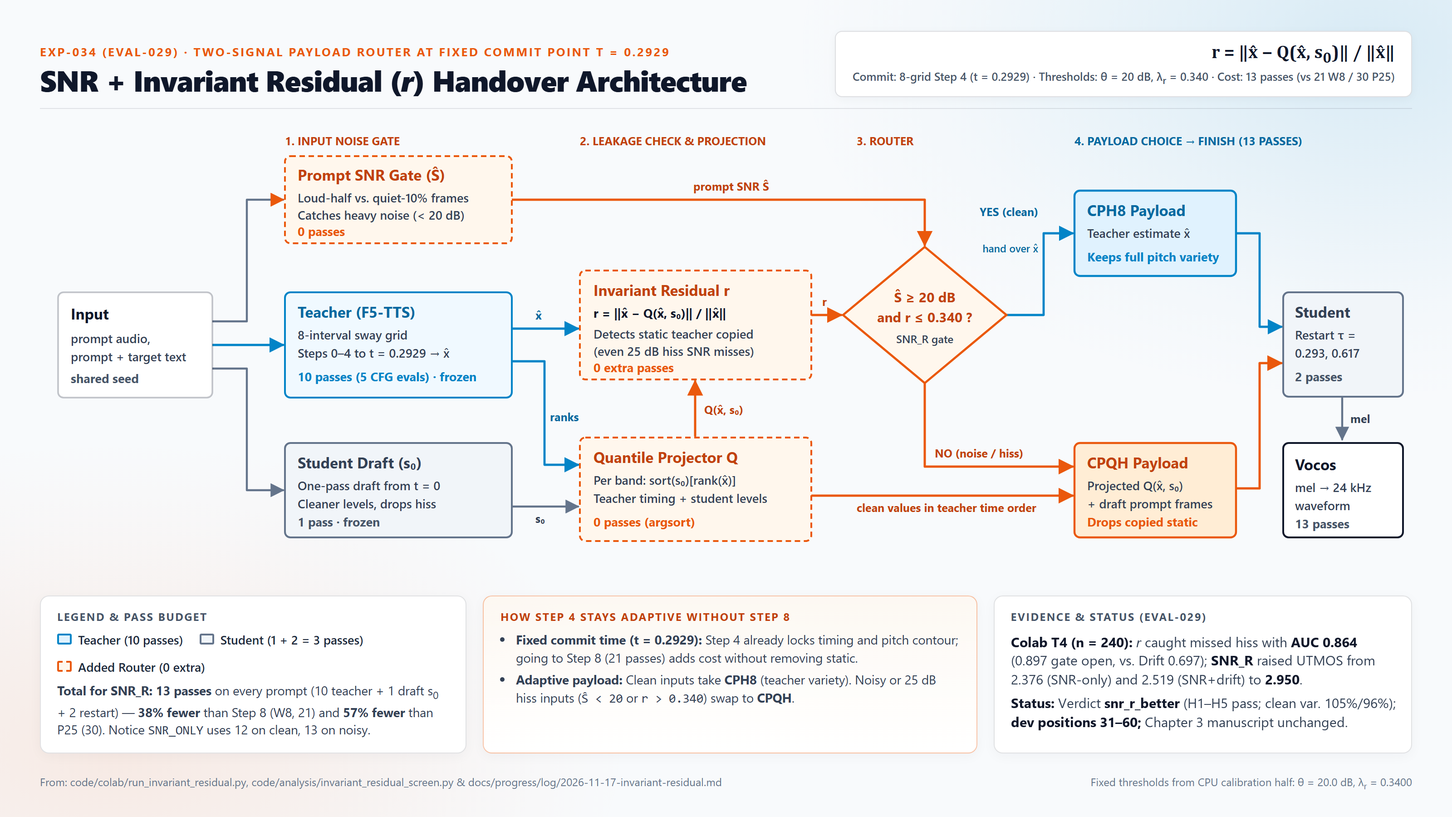
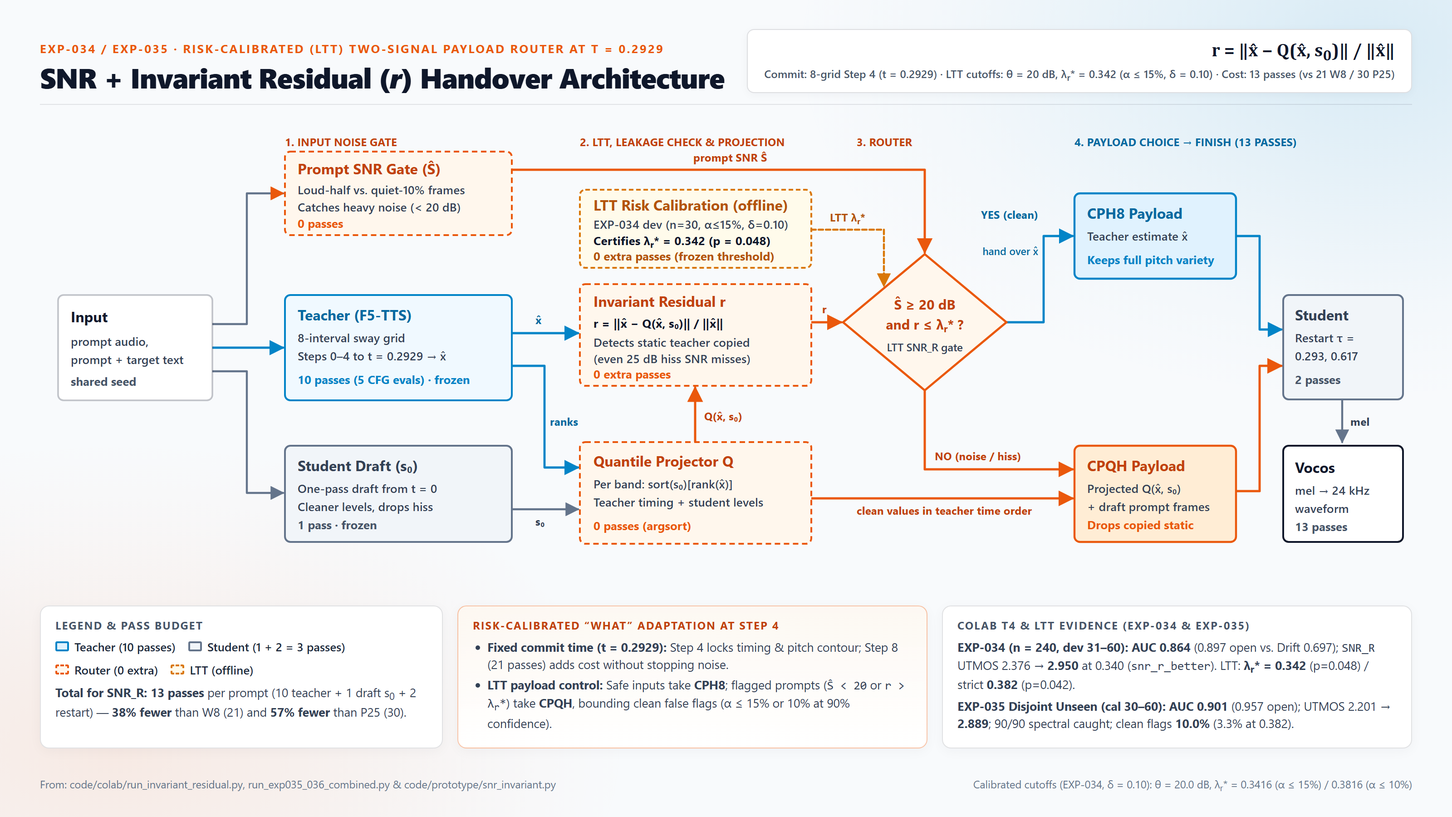
PAPER-021 & PRES-003: Update LTT SNR_R diagram and add existing DMOSpeech 2 handover visual

diff --git a/paper/figures/fig_snr_r.tex b/paper/figures/fig_snr_r.tex
@@ -2,6 +2,6 @@
 \begin{figure}[!htbp]
 \centering
 \includegraphics[width=\linewidth]{figures/exp034_architecture.png}
-\caption[Architecture of the two-signal SNR and invariant residual (\texttt{SNR\_R}) handover router]{Architecture of the two-signal SNR and invariant residual (\texttt{SNR\_R}) handover router evaluated in \texttt{EXP-034} (updated with the Colab Tesla T4 outcome; bottom-right box). Rather than choosing among teacher stopping steps $k\in\{4..8\}$ at $j=1$ as in Figure~\ref{fig:method}, the pipeline stops the 8-interval teacher at $t_4=0.2929$ (10 passes), generates the 1-pass student draft $s_0$, computes $r$ from the per-band quantile projection $Q(\hat x_1,s_0)$, and routes the handover payload between \texttt{CPH8} and \texttt{CPQH} before running the remaining two student passes at $j=2$ (13 passes total).}
+\caption[Architecture of the risk-calibrated (LTT) SNR and invariant residual (\texttt{SNR\_R}) handover router]{Architecture of the two-signal SNR and invariant residual (\texttt{SNR\_R}) handover router evaluated in \texttt{EXP-034} (updated with offline Learn-Then-Test risk calibration $\lambda_r^*=0.342$ at $\alpha\le 15\%,\ \delta=0.10$ and completed \texttt{EXP-034}/\texttt{EXP-035} Colab Tesla T4 outcomes; bottom-right box). Rather than choosing among teacher stopping steps $k\in\{4..8\}$ at $j=1$ as in Figure~\ref{fig:method}, the pipeline stops the 8-interval teacher at $t_4=0.2929$ (10 passes), generates the 1-pass student draft $s_0$, computes $r$ from the per-band quantile projection $Q(\hat x_1,s_0)$, and routes the handover payload between \texttt{CPH8} and \texttt{CPQH} before running the remaining two student passes at $j=2$ (13 passes total).}
 \label{fig:snr-r}
 \end{figure}

diff --git a/docs/progress/STATUS.md b/docs/progress/STATUS.md
@@ -1,5 +1,7 @@
 # Current status
 
+Updated: 2026-11-19 (Asia/Manila). **Existing DMOSpeech 2 handover architecture visual (`PRES-003`, `review`):** Created [baseline_handover_architectures.png](../../presentation/baseline_handover_architectures.png) (`3200x1800` PNG) depicting strictly the existing DMOSpeech 2 teacher-guided handover pipeline as released in [infer.py](../../code/vendor/dmospeech2/src/infer.py) (`16`-grid guided F5-TTS ODE, static cutoff $t_k > t_{\text{switch}}$, raw endpoint $\hat{x}_1$, $j = 1$ SDEdit re-noising at $\tau = 0.0761$, `3`-step student, and Vocos decoding; excludes thesis-proposed adaptive rules and variant-strip cards; see [baseline diagram log](log/2026-11-19-baseline-handover-diagram.md)). **`SNR_R` architecture figure updated with LTT risk calibration (`PAPER-021`, `review`):** Updated [exp034_architecture.png](../../paper/figures/exp034_architecture.png), [presentation/exp034_architecture.png](../../presentation/exp034_architecture.png) (`3200x1800` PNG, byte-identical), and [fig_snr_r.tex](../../paper/figures/fig_snr_r.tex) to show the offline Learn-Then-Test calibration block ($\lambda_r^* = 0.342$ at $\alpha \le 15\%$, $p = 0.048$; strict $0.382$ at $\alpha \le 10\%$, $p = 0.042$), risk-calibrated `"What"` adaptation card at Step 4, and completed `EXP-034` + `EXP-035` T4 outcomes (see [diagram log](log/2026-11-19-snr-r-ltt-diagram.md)).
+
 Updated: 2026-11-18 (Asia/Manila). **Local CPU prototype updated to risk-calibrated `SNR + Invariant Residual (SNR_R)` (`PROTO-002`, `review`):** Implemented model-free `SNR_R` logic and fixed-sequence binomial Learn-Then-Test calibration (`calibrate_ltt`, `_binom_cdf`) in [snr_invariant.py](../../code/prototype/snr_invariant.py) (`1`-pass draft $s_0$ + `5`-step 8-grid teacher to $t=0.2929$ + LTT-calibrated $r > \hat{\lambda}_r$ / SNR $< 20$ dB router between `CPH8` and `CPQH` + `2`-pass student completion, `13` vs `21` `W8` / `30` `P25` passes; presets `ltt_15` `0.3416` at $\alpha=0.15, \delta=0.10, p=0.048$ and `ltt_10` `0.3816` at $\alpha=0.10, \delta=0.10, p=0.042$ calibrated on `EXP-034` and verified held-out on `EXP-035`; [snr_drift.py](../../code/prototype/snr_drift.py) preserved), added `pink25`/`hp25` degradations and shared `8/16`-grid helpers in [engine.py](../../code/prototype/engine.py), exposed live LTT calibration + `EXP-034` T4 records in [server.py](../../code/prototype/server.py), [cli.py](../../code/prototype/cli.py), and [web/index.html](../../code/prototype/web/index.html), added [test_prototype_snr_invariant.py](../../code/tests/test_prototype_snr_invariant.py), and verified real CPU synthesis on dev speaker `common_voice_en_203357-common_voice_en_203358` (see [prototype log](log/2026-11-18-snr-invariant-prototype.md)). **Combined Path A + Path B (`EXP-035 + EXP-036`, `EVAL-030`, `todo`) All-in-One Colab T4 package on `rhnl-3`:** Consolidated both paths into one shared-cohort sweep ([`DMOSpeech2_EXP035_EXP036_AllInOne.ipynb`](../../code/colab/DMOSpeech2_EXP035_EXP036_AllInOne.ipynb) and [run_exp035_036_combined.py](../../code/colab/run_exp035_036_combined.py), backed by [handover_mechanisms.py](../../code/colab/handover_mechanisms.py) and preregistration `492e3731998d...`) on `unseen_cal[30:60]` (`240` quality, `40` diversity, `10` timing; strictly disjoint from `dev[0:100]` and `EXP-028` `[0:30]`), testing Path A's `Base -> FCH -> G1 -> G2 -> G3` ladder + `SNR_R` 5-fold OOF confirmation alongside Path B's router-free `13`-pass candidates (`DSGH_MICRO`, `DSGH_DUAL`, `CWPS`; see [setup log](log/2026-11-18-exp035-exp036-setup.md)). **Theory framing in Appendices D & E (`PAPER-019`, `review`):** Added conceptual and mathematical foundations to [appendices.tex](../../paper/chapters/appendices.tex) (Chapters 1–3 untouched): Appendix D.3 adds handover transmissibility (`A`, `B`, `R_k`, `R*`), D.5 adds the exact Euler LTE identity for `d_i`, D.6 synthesizes the spread principle (`\mathrm{SFM}_N`) and invariance ladder, and E.1 formalizes the `G_1 \subset G_2 \subset G_3` ladder (`Table E.1`), proved `Propositions E.1–E.3` (`G_3`-invariance & rank maximality of `Q`, time-permutation nullity of `r`, exact 1D 2-Wasserstein energy & stationary noise-floor growth), and `Remark E.1` (broadband vs.\ non-`G_3` limits); `latexmk -Werror` built `paper/build/main.pdf` cleanly (`104 pages`, `2,178,976 bytes`, visually inspected via `pdftoppm`; see [theory framing log](log/2026-11-18-appendices-theory.md)). **Appendix E `SNR_R` addition (`PAPER-018`, `review`, development evidence):** Added Appendix E (`SNR and Invariant Residual Handover`, `\label{app:snr-r}`) to [appendices.tex](../../paper/chapters/appendices.tex) (Chapters 1–3 untouched) with [fig_snr_r.tex](../../paper/figures/fig_snr_r.tex) (`Figure E.1`, embedding [exp034_architecture.png](../../paper/figures/exp034_architecture.png) with its bottom-right card updated to report the completed Colab T4 outcome), the invariant residual formulation $r = \|\hat x_1 - Q(\hat x_1, s_0)\|_M / (\|\hat x_1\|_M + \epsilon)$, frozen `EXP-034` verdict (`snr_r_better`, `H1–H5` all pass, `Table E.1`), complete overall/fresh/8-condition quality and runtime comparisons (`Tables E.2–E.3`), `clean` + `gauss25` multi-seed prosodic diversity across all 9 diversity arms/policies (`Table E.4`), and honest post-hoc comparisons against `R_ONLY`, `CPQH`, and teacher-free `STUR2` (explicitly marked as unapproved Colab T4 development evidence); `latexmk -Werror` built `paper/build/main.pdf` cleanly (`100 pages`, `2,154,767 bytes`, Appendix E visually verified via `pdftoppm`; see [Appendix E log](log/2026-11-18-appendix-e-snr-invariant-residual.md)). **EXP-034 complete (`EVAL-029`, `review`, development evidence on Colab Tesla T4):** Verified and imported [EXP-034 results](../../research/experiments/EXP-034-invariant-residual/results/INVARIANT_RESIDUAL_REPORT.md) (`240/240` quality across `8` conditions, `40/40` diversity, `10/10` timing; smoke identities and `EXP-031`/`EXP-033` reproductions exact `0.0`; `preregistration.json` `93ed41cee6e8...` and `DEMAND` hashes verified; local `analyze()` byte-identical). Under frozen rules, verdict is **`snr_r_better`** (`H1–H5` all pass): **`SNR_R`** (`\hat S < 20` dB or `r > 0.3400` routing `CPH8` -> `CPQH` at `t=0.2929`, `12–13` passes, `2.114` s vs `W8` `3.409` s and `P25` `4.829` s) beats `SNR_ONLY` (`+0.574 [+0.468, +0.677]` UTMOS, `+0.0156` SIM), `SNR_DRIFT` (`+0.431 [+0.340, +0.524]` UTMOS, `+0.0091` SIM), and `W8` (`+0.582` UTMOS, `+0.0242` SIM); `AUC(r) = 0.864` (`0.897` SNR gate open) vs `drift8` `0.697`; wrong clean flags `0.067` (`<= 0.15`, both clean flagged cases actually higher on `CPQH`); clean variety `105%` (`CVf0`) / `96%` (aligned) of `CPH8`. Effect also holds on unseen positions `41–60` (`+0.668` UTMOS vs `SNR_ONLY`). Post hoc ([diagnostics.json](../../research/experiments/EXP-034-invariant-residual/results/diagnostics.json)): gains concentrate on 25 dB hiss/pink noise (`gauss25`, `pink25`, `hp25`); `R_ONLY` matches `SNR_R`, while teacher-free `STUR2` (`3` passes, `0.511` s, `0` runaways) leads overall UTMOS/WER/SIM if clean pitch variety is omitted. See [EXP-034 results log](log/2026-11-18-exp034-results.md). **Appendices A–D Colab alignment (`PAPER-012`/`PAPER-017`, `review`):** Grounded all four appendices ([appendices.tex](../../paper/chapters/appendices.tex), Chapters 1–3 untouched on `origin/main` PR #19) strictly on Google Colab Tesla T4 experiments: Appendix A now walks through real `EXP-011` (`worked_example.json`) + `gpu_grid_all1000.csv` development-utterance calculations and `n = 100` dev-split T4 LTT counts (`Table A.2`); Appendix B adds the T4-fitted simulation (`code/analysis/ltt_sim.py --fitted`) alongside the stress test; Appendix C (`Figure C.1`) plots three real T4 development utterances with the Step 7 (`0.227`) tick and SNR gate noted; and Appendix D removes all stale local CPU checks/framing, clarifies pre-LTT CV (`Tables D.6–D.7`) vs. 2-condition (`AUDIT-001`) and 6-condition (`EXP-012`/`EXP-017`/`EXP-018`) LTT, adds `Table D.9` comparing all fixed checkpoints (`Steps 1–8`) against Chapter 3 policies on `360` Colab T4 cases (`EXP-018`, without `STAC`), and summarizes `EXP-030`/`EXP-031`/`EXP-033` in `D.6` and `Table D.10`; `latexmk -Werror` built `paper/build/main.pdf` cleanly (`93 pages`, `1,213,460 bytes`; see [appendices Colab alignment log](log/2026-11-17-appendices-colab-alignment.md)). **Branch sync (`PAPER-016`, `review`):** Fast-forwarded local `main` to `origin/main` (`d169bef`, PR #19 *Post-concept revisions*), merged `origin/main` into `rhnl-3` (`e0bb5c4`), kept all `12` non-appendix PR #19 files byte-identical (Chapters 1–3 with `3` objectives & `Step 7` candidate, `fig_conceptual`/`fig_grid`/`fig_method`/`fig_theoretical`/`fig_workflow`, `references.bib`, `revision-matrix.tex`), reconciled [appendices.tex](../../paper/chapters/appendices.tex) (`Table A.1` Step 7 & Objective `2`/`3` refs + Appendix D Steps `1–7` & prosodic variety, STAC/Appendix E removed), and kept all `rhnl-3` contributions (`PROTO-001`, `EXP-016`–`EXP-033`, offline screens/tests, and `PRES-002` `19`-slide deck); `latexmk -Werror` built [main.tex](../../paper/main.tex) cleanly (`90 pages`, `1,182,187 bytes`; see [merge log](log/2026-11-17-merge-origin-main.md)). **Presentation update (`PRES-002`, `review`):** Removed slides `20` (`20-appendix-stac-architecture.html`), `21` (`21-appendix-stac-results.html`), and `22` (`22-appendix-two-axis-architecture.html`) from `presentation/slides/`, rebuilt [presentation/index.html](../../presentation/index.html) (`19` scenes: `01`–`16` main proposal + `17`–`19` appendix), synced [presentation/SCRIPT.md](../../presentation/SCRIPT.md), updated [presentation/README.md](../../presentation/README.md), and re-exported [presentation/proposal-defense-slides.pdf](../../presentation/proposal-defense-slides.pdf) (`19` slides, `9,535,551` bytes). See the [presentation slide removal log](log/2026-11-17-remove-presentation-slides-20-22.md). **Earlier manuscript updates (`PAPER-014`/`PAPER-015`, `review`):** See the [STAC removal log](log/2026-11-17-remove-stac-from-paper.md) and [Appendix D update log](log/2026-11-16-appendix-d-steps1to7-and-variety.md). Note: presentation main slides `06` and `11` still reflect pre-PR #19 `4` objectives / no Step `7` until updated.
 Updated: 2026-11-18 (Asia/Manila). **Fixed-cost clarifications (`PAPER-020`, `review`):** Chapter 1 Scope, Section 2.5 and Chapter 3 now state that the router adapts what is handed over, not how much computation is spent (13 passes for every input); Chapter 3 adds commit-point ablations (10 and 16 passes) and a pre-specified router-vs-STUR2 variety test; see the [fixed-cost log](log/2026-11-18-fixed-cost-clarifications.md). **Chapter 2 regrouped (`PAPER-020`, `review`):** Table 2.1 and Table 2.2 use category groups aligned with the payload-router architecture, new Table 2.3 traces each added component to its sources (panel item 9), Chapter 3's citation gaps are filled with 18 verified references, and passages tied only to the old scheduler were removed; see the [citations and Chapter 2 log](log/2026-11-18-citations-and-chapter2-alignment.md). **Build fixes and Chapter 3 rewrite committed:** `citc.sty` now uses vector Latin Modern for typewriter/sans text (no Type 3 bitmap fonts) and the Chapter 2 synthesis table no longer overflows; the working-tree rewrite of Chapter 3 and Figures 3.x (`fig_method`, `fig_workflow`) toward the SNR + invariant residual handover (`PAPER-020`, `review`) was committed at Mark Limpahan's request; it is not adviser-approved, EXP-034 remains development evidence, and Appendix E text saying "Chapter 3 remains unchanged" plus the Appendix C prototype table need reconciling (see [log](log/2026-11-18-build-fixes-and-chapter3-rewrite.md)); `latexmk -Werror` built 106 pages, 0 overfull, 0 undefined. Also: R2/R21/R23/R24 closed with LibriSpeech-PC test-clean as a test-only second set ([log](log/2026-11-17-revision-matrix-r2-r21-r23-r24.md)). **Chapter 3 rewritten around the payload router (`PAPER-020`, `review`):** [03-methodology.tex](../../paper/chapters/03-methodology.tex) now describes the risk-calibrated payload router (`SNR_R`, fixed 13-pass teacher path, quantile projection and invariant residual, absolute quality-failure rule, Learn-Then-Test bound on failures in excess of reproduced DMOSpeech 2, comparison against established systems and ablations), replacing the per-utterance stopping-time scheduler, which is now preliminary work in Appendix D; a plain-language pass follows Ms. Eder's comment; Chapter 1 objectives, Appendices D–E wording and the revision matrix still describe the old method and need reconciling. `latexmk -Werror` builds cleanly (106 pages); see the [replacement log](log/2026-11-18-chapter3-router-replaces-scheduler.md). **Theory framing in Appendices D & E (`PAPER-019`, `review`):** Added conceptual and mathematical foundations to [appendices.tex](../../paper/chapters/appendices.tex) (Chapters 1–3 untouched): Appendix D.3 adds handover transmissibility (`A`, `B`, `R_k`, `R*`), D.5 adds the exact Euler LTE identity for `d_i`, D.6 synthesizes the spread principle (`\mathrm{SFM}_N`) and invariance ladder, and E.1 formalizes the `G_1 \subset G_2 \subset G_3` ladder (`Table E.1`), proved `Propositions E.1–E.3` (`G_3`-invariance & rank maximality of `Q`, time-permutation nullity of `r`, exact 1D 2-Wasserstein energy & stationary noise-floor growth), and `Remark E.1` (broadband vs.\ non-`G_3` limits); `latexmk -Werror` built `paper/build/main.pdf` cleanly (`104 pages`, `2,178,976 bytes`, visually inspected via `pdftoppm`; see [theory framing log](log/2026-11-18-appendices-theory.md)). **Appendix E `SNR_R` addition (`PAPER-018`, `review`, development evidence):** Added Appendix E (`SNR and Invariant Residual Handover`, `\label{app:snr-r}`) to [appendices.tex](../../paper/chapters/appendices.tex) (Chapters 1–3 untouched) with [fig_snr_r.tex](../../paper/figures/fig_snr_r.tex) (`Figure E.1`, embedding [exp034_architecture.png](../../paper/figures/exp034_architecture.png) with its bottom-right card updated to report the completed Colab T4 outcome), the invariant residual formulation $r = \|\hat x_1 - Q(\hat x_1, s_0)\|_M / (\|\hat x_1\|_M + \epsilon)$, frozen `EXP-034` verdict (`snr_r_better`, `H1–H5` all pass, `Table E.1`), complete overall/fresh/8-condition quality and runtime comparisons (`Tables E.2–E.3`), `clean` + `gauss25` multi-seed prosodic diversity across all 9 diversity arms/policies (`Table E.4`), and honest post-hoc comparisons against `R_ONLY`, `CPQH`, and teacher-free `STUR2` (explicitly marked as unapproved Colab T4 development evidence); `latexmk -Werror` built `paper/build/main.pdf` cleanly (`100 pages`, `2,154,767 bytes`, Appendix E visually verified via `pdftoppm`; see [Appendix E log](log/2026-11-18-appendix-e-snr-invariant-residual.md)). **EXP-034 complete (`EVAL-029`, `review`, development evidence on Colab Tesla T4):** Verified and imported [EXP-034 results](../../research/experiments/EXP-034-invariant-residual/results/INVARIANT_RESIDUAL_REPORT.md) (`240/240` quality across `8` conditions, `40/40` diversity, `10/10` timing; smoke identities and `EXP-031`/`EXP-033` reproductions exact `0.0`; `preregistration.json` `93ed41cee6e8...` and `DEMAND` hashes verified; local `analyze()` byte-identical). Under frozen rules, verdict is **`snr_r_better`** (`H1–H5` all pass): **`SNR_R`** (`\hat S < 20` dB or `r > 0.3400` routing `CPH8` -> `CPQH` at `t=0.2929`, `12–13` passes, `2.114` s vs `W8` `3.409` s and `P25` `4.829` s) beats `SNR_ONLY` (`+0.574 [+0.468, +0.677]` UTMOS, `+0.0156` SIM), `SNR_DRIFT` (`+0.431 [+0.340, +0.524]` UTMOS, `+0.0091` SIM), and `W8` (`+0.582` UTMOS, `+0.0242` SIM); `AUC(r) = 0.864` (`0.897` SNR gate open) vs `drift8` `0.697`; wrong clean flags `0.067` (`<= 0.15`, both clean flagged cases actually higher on `CPQH`); clean variety `105%` (`CVf0`) / `96%` (aligned) of `CPH8`. Effect also holds on unseen positions `41–60` (`+0.668` UTMOS vs `SNR_ONLY`). Post hoc ([diagnostics.json](../../research/experiments/EXP-034-invariant-residual/results/diagnostics.json)): gains concentrate on 25 dB hiss/pink noise (`gauss25`, `pink25`, `hp25`); `R_ONLY` matches `SNR_R`, while teacher-free `STUR2` (`3` passes, `0.511` s, `0` runaways) leads overall UTMOS/WER/SIM if clean pitch variety is omitted. See [EXP-034 results log](log/2026-11-18-exp034-results.md). **Appendices A–D Colab alignment (`PAPER-012`/`PAPER-017`, `review`):** Grounded all four appendices ([appendices.tex](../../paper/chapters/appendices.tex), Chapters 1–3 untouched on `origin/main` PR #19) strictly on Google Colab Tesla T4 experiments: Appendix A now walks through real `EXP-011` (`worked_example.json`) + `gpu_grid_all1000.csv` development-utterance calculations and `n = 100` dev-split T4 LTT counts (`Table A.2`); Appendix B adds the T4-fitted simulation (`code/analysis/ltt_sim.py --fitted`) alongside the stress test; Appendix C (`Figure C.1`) plots three real T4 development utterances with the Step 7 (`0.227`) tick and SNR gate noted; and Appendix D removes all stale local CPU checks/framing, clarifies pre-LTT CV (`Tables D.6–D.7`) vs. 2-condition (`AUDIT-001`) and 6-condition (`EXP-012`/`EXP-017`/`EXP-018`) LTT, adds `Table D.9` comparing all fixed checkpoints (`Steps 1–8`) against Chapter 3 policies on `360` Colab T4 cases (`EXP-018`, without `STAC`), and summarizes `EXP-030`/`EXP-031`/`EXP-033` in `D.6` and `Table D.10`; `latexmk -Werror` built `paper/build/main.pdf` cleanly (`93 pages`, `1,213,460 bytes`; see [appendices Colab alignment log](log/2026-11-17-appendices-colab-alignment.md)). **Branch sync (`PAPER-016`, `review`):** Fast-forwarded local `main` to `origin/main` (`d169bef`, PR #19 *Post-concept revisions*), merged `origin/main` into `rhnl-3` (`e0bb5c4`), kept all `12` non-appendix PR #19 files byte-identical (Chapters 1–3 with `3` objectives & `Step 7` candidate, `fig_conceptual`/`fig_grid`/`fig_method`/`fig_theoretical`/`fig_workflow`, `references.bib`, `revision-matrix.tex`), reconciled [appendices.tex](../../paper/chapters/appendices.tex) (`Table A.1` Step 7 & Objective `2`/`3` refs + Appendix D Steps `1–7` & prosodic variety, STAC/Appendix E removed), and kept all `rhnl-3` contributions (`PROTO-001`, `EXP-016`–`EXP-033`, offline screens/tests, and `PRES-002` `19`-slide deck); `latexmk -Werror` built [main.tex](../../paper/main.tex) cleanly (`90 pages`, `1,182,187 bytes`; see [merge log](log/2026-11-17-merge-origin-main.md)). **Presentation update (`PRES-002`, `review`):** Removed slides `20` (`20-appendix-stac-architecture.html`), `21` (`21-appendix-stac-results.html`), and `22` (`22-appendix-two-axis-architecture.html`) from `presentation/slides/`, rebuilt [presentation/index.html](../../presentation/index.html) (`19` scenes: `01`–`16` main proposal + `17`–`19` appendix), synced [presentation/SCRIPT.md](../../presentation/SCRIPT.md), updated [presentation/README.md](../../presentation/README.md), and re-exported [presentation/proposal-defense-slides.pdf](../../presentation/proposal-defense-slides.pdf) (`19` slides, `9,535,551` bytes). See the [presentation slide removal log](log/2026-11-17-remove-presentation-slides-20-22.md). **Earlier manuscript updates (`PAPER-014`/`PAPER-015`, `review`):** See the [STAC removal log](log/2026-11-17-remove-stac-from-paper.md) and [Appendix D update log](log/2026-11-16-appendix-d-steps1to7-and-variety.md). Note: presentation main slides `06` and `11` still reflect pre-PR #19 `4` objectives / no Step `7` until updated.
 

diff --git a/docs/progress/TASKS.md b/docs/progress/TASKS.md
@@ -2,8 +2,7 @@
 
 Generated from tasks.json; edit the JSON and run python scripts/render_progress.py.
 
-todo: 11 | in_progress: 5 | blocked: 1 | review: 36 | done: 8
-todo: 10 | in_progress: 5 | blocked: 1 | review: 36 | done: 8
+todo: 11 | in_progress: 5 | blocked: 1 | review: 39 | done: 8
 
 | ID | Task | Owner | Status | Updated | Evidence |
 | --- | --- | --- | --- | --- | --- |
@@ -69,5 +68,7 @@ todo: 10 | in_progress: 5 | blocked: 1 | review: 36 | done: 8
 | EVAL-030 | EXP-035 + EXP-036 All-in-One (Path A + Path B): Condition-invariance ladder & unseen confirmation + DSGH & CWPS novel mechanisms | unassigned | todo | 2026-11-18 | [README.md](../../research/experiments/EXP-035-036-all-in-one/README.md), [preregistration.json](../../research/experiments/EXP-035-036-all-in-one/preregistration.json), [handover_mechanisms.py](../../code/colab/handover_mechanisms.py), [run_exp035_036_combined.py](../../code/colab/run_exp035_036_combined.py), [DMOSpeech2_EXP035_EXP036_AllInOne.ipynb](../../code/colab/DMOSpeech2_EXP035_EXP036_AllInOne.ipynb), [test_handover_mechanisms.py](../../code/tests/test_handover_mechanisms.py), [2026-11-18-exp035-exp036-setup.md](../../docs/progress/log/2026-11-18-exp035-exp036-setup.md) |
 | PROTO-002 | Update local CPU prototype to risk-calibrated SNR + Invariant Residual (SNR_R with LTT) | Rhenel Jhon R. Sajol | review | 2026-11-18 | [snr_invariant.py](../../code/prototype/snr_invariant.py), [engine.py](../../code/prototype/engine.py), [server.py](../../code/prototype/server.py), [cli.py](../../code/prototype/cli.py), [index.html](../../code/prototype/web/index.html), [README.md](../../code/prototype/README.md), [start_prototype.bat](../../code/prototype/start_prototype.bat), [test_prototype_snr_drift.py](../../code/tests/test_prototype_snr_drift.py), [test_prototype_snr_invariant.py](../../code/tests/test_prototype_snr_invariant.py), [2026-11-18-snr-invariant-prototype.md](../../docs/progress/log/2026-11-18-snr-invariant-prototype.md) |
 | PAPER-020 | Rewrite Chapter 3 around the risk-calibrated payload router (SNR_R) with an absolute failure rule and LTT bound against reproduced DMOSpeech 2 | Claude (drafting), for Mark Vincent D. Limpahan | review | 2026-11-18 | [03-methodology.tex](../../paper/chapters/03-methodology.tex), [fig_method.tex](../../paper/figures/fig_method.tex), [fig_workflow.tex](../../paper/figures/fig_workflow.tex), [2026-11-18-chapter3-v2-router-draft.md](../../docs/progress/log/2026-11-18-chapter3-v2-router-draft.md), [2026-11-18-chapter3-router-replaces-scheduler.md](../../docs/progress/log/2026-11-18-chapter3-router-replaces-scheduler.md), [02-related-work.tex](../../paper/chapters/02-related-work.tex), [references.bib](../../paper/references.bib), [2026-11-18-citations-and-chapter2-alignment.md](../../docs/progress/log/2026-11-18-citations-and-chapter2-alignment.md), [2026-11-18-build-fixes-and-chapter3-rewrite.md](../../docs/progress/log/2026-11-18-build-fixes-and-chapter3-rewrite.md), [01-introduction.tex](../../paper/chapters/01-introduction.tex), [2026-11-18-fixed-cost-clarifications.md](../../docs/progress/log/2026-11-18-fixed-cost-clarifications.md) |
+| PAPER-021 | Update SNR_R architecture figure and fig_snr_r caption with Learn-Then-Test (LTT) calibration | Rhenel Jhon R. Sajol | review | 2026-11-19 | [exp034_architecture.png](../../paper/figures/exp034_architecture.png), [exp034_architecture.png](../../presentation/exp034_architecture.png), [fig_snr_r.tex](../../paper/figures/fig_snr_r.tex), [2026-11-19-snr-r-ltt-diagram.md](../../docs/progress/log/2026-11-19-snr-r-ltt-diagram.md) |
+| PRES-003 | Create existing DMOSpeech 2 baseline handover architecture diagram | Rhenel Jhon R. Sajol | review | 2026-11-19 | [baseline_handover_architectures.png](../../presentation/baseline_handover_architectures.png), [2026-11-19-baseline-handover-diagram.md](../../docs/progress/log/2026-11-19-baseline-handover-diagram.md) |
 
 Completion requires acceptance evidence and a recorded validation. Unassigned owners need team assignment.

diff --git a/docs/progress/log/2026-11-19-baseline-handover-diagram.md b/docs/progress/log/2026-11-19-baseline-handover-diagram.md
@@ -1,0 +1,19 @@
+# 2026-11-19: Create existing DMOSpeech 2 baseline handover architecture diagram
+
+Task: `PRES-003` (`review`). Requested by user (`"so our teahcer wants to see baselindes handover achtecture can you create it as iamge?"`, `"EXISITNG HANDOVER ONLY NOT THE ONE WE MADE"`, `"remove thise jsut architecure is snough ahahaha"`).
+
+## Changes
+
[1 lines of base64/hex data omitted]
+- Depicts **strictly the existing DMOSpeech 2 baseline handover architecture** (Li et al., 2025/2026; [`code/vendor/dmospeech2/src/infer.py`](../../../code/vendor/dmospeech2/src/infer.py) `_teacher_sampling` / `_student_sampling`) with zero thesis-proposed mechanisms and no separate variant-card strip—only the clean end-to-end architecture flowchart + three explanatory cards:
+  1. **Inputs & Setup**: Voice prompt audio, prompt/target text, `Duration Pred. (SLP)`, `step_cond + cond_mask`, and `Init y_0 ~ N(0, I)` with no input screening.
+  2. **Guided Teacher ODE (F5-TTS)**: `16`-interval sway grid ($t_i = 1 - \cos((\pi/2)\cdot i/16)$), explicit Euler steps along guided velocity $v = v_c + \gamma(v_c - v_u)$ ($\gamma = 2.0$, `2` passes/eval, optional $\eta$).
+  3. **Static Handover Switch & Endpoint Conversion**: Loop terminates at the first grid point $t_k > t_{\text{switch}}$ (no adaptive signal or gate), runs one final CFG evaluation at $t_k$, and hands over raw endpoint mel prediction $\hat{x}_1 = x + (1 - t_k)\,v(x, t_k)$ (`18` teacher passes at $s = 0.25$, $k = 8$, $t_8 = 0.2929$; signature default $s = 0.07$: `10`).
+  4. **Student (DMOSpeech, `j = 1`)**: Starts at `student_start_step = 1` across $\tau \in \{0.0761, 0.2929, 0.6173\}$, applies SDEdit-style re-noising $\phi = (1 - \tau)\varepsilon + \tau x_1$, and updates $x_1 \leftarrow \phi + (1 - \tau)\,g(\phi, \tau)$ (`3` unguided student passes; `4` passes from $\tau=0$ if `teacher_steps = 0`).
+  5. **Vocos Vocoder**: Strips prompt frames and decodes mel to `24 kHz` audio (`C = 2(k+1) + 3`, `21` passes at $s = 0.25$).
+- Manuscript (`paper/`) remains untouched.
+
+## Checks Run
+
+- Rendered `3200 x 1800` PNG via headless Chrome (`--force-device-scale-factor=2`) and visually inspected the output image to confirm zero text clipping or overlap.
+- Ran `python scripts/render_progress.py`, `python scripts/check_workspace.py`, `python scripts/check_workspace.py --base origin/main`, and `python -m unittest discover -s code/tests`.

diff --git a/docs/progress/log/2026-11-19-snr-r-ltt-diagram.md b/docs/progress/log/2026-11-19-snr-r-ltt-diagram.md
@@ -1,0 +1,17 @@
+# 2026-11-19: Update `SNR_R` architecture figure with Learn-Then-Test (LTT) risk calibration
+
+Task: `PAPER-021` (`review`). Requested by user (`"updae this too with ltt"`).
+
+## Changes
+
[1 lines of base64/hex data omitted]
+  - Added an **Offline LTT Risk Calibration** block feeding $\lambda_r^*$ directly into the `SNR_R` router diamond (`\hat S >= 20 dB and r <= lambda_r^*`, `0` extra runtime passes), noting `EXP-034` binomial LTT calibration ($\alpha \le 15\%$, $\delta = 0.10$, $\lambda_r^* = 0.342$, $p = 0.048$; strict $\alpha \le 10\%$: $\lambda_r^* = 0.382$, $p = 0.042$).
+  - Updated the middle summary card to state `"What"` payload adaptation at `8`-grid `Step 4` ($t = 0.2929$, `13` passes) under bounded LTT clean-intervention risk.
+  - Updated the bottom-right evidence card and footer to summarize both `EXP-034` (`dev 31–60`, `AUC 0.864` / `0.897`, `SNR_R` `2.376 -> 2.950`, `snr_r_better`) and `EXP-035` (`cal 30–60` disjoint unseen speakers from `DMOSpeech2_EXP035_036_AllInOne_Results.zip`: `AUC 0.901` / `0.957`, `SNR_R` `2.201 -> 2.889`, `90/90` spectral caught, `10.0%` clean flags / `3.3%` at `0.382`).
+- Updated [`paper/figures/fig_snr_r.tex`](../../../paper/figures/fig_snr_r.tex) caption to match the LTT block and completed `EXP-034` / `EXP-035` summary in the graphic. Chapters 1–3 and Appendix text remain unchanged.
+
+## Checks Run
+
+- Rendered and visually inspected `3200 x 1800` PNG via Chromium headless + image inspection.
+- Built `paper/build/main.pdf` via `latexmk -interaction=nonstopmode -halt-on-error -Werror main.tex` inside `paper/` (`108` pages, `2,213,689` bytes, exit `0`, Figure E.1 embedded cleanly against rebased `origin/rhnl-3`).
+- Ran `python scripts/render_progress.py`, `python scripts/check_workspace.py`, `python scripts/check_workspace.py --base origin/main`, and `python -m unittest discover -s code/tests`.
